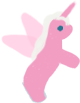
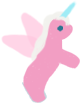
PF: changed unicorn horn colors on hover

Changed region(s): [[0.75, 0.0, 0.95, 0.1748]]

diff --git a/index.html b/index.html
@@ -55,7 +55,7 @@
   <section id="table-of-contents">
     <h1>Works</h1>
     <section class="all-groups">
-      <section class="group">
+      <section class="group" id="group1">
         <h2>Visual communication</h2>
         <a href="">
           <p>Best Practices for Reopening During COVID-19</p>
@@ -71,26 +71,23 @@
         </a>
       </section>
 
-      <section class="group">
+      <section class="group" id="group2">
         <h2>Digital media</h2>
         <a href="">
           <p>Portfolio Website</p>
         </a>
         <a href="">
-          <p>Reserve & Shop Infographics</p>
+          <p>AGIC Social Media Posters</p>
         </a>
         <a href="">
           <p>Mischievous Monkey</p>
         </a>
         <a href="">
-          <p>AGIC Social Media Posters</p>
-        </a>
-        <a href="">
-          <p>Trapped in Technology</p>
+          <p>Reserve & Shop Infographics</p>
         </a>
       </section>
 
-      <section class="group">
+      <section class="group" id="group3">
         <h2>Built environment</h2>
         <a href="">
           <p>Butterfly Automata</p>
@@ -100,8 +97,11 @@
         </a>
       </section>
 
-      <section class="group">
-        <h2>Game design</h2>
+      <section class="group" id="group4">
+        <h2>Game/Interactive design</h2>
+        <a href="">
+          <p>Trapped in Technology</p>
+        </a>
         <a href="">
           <p>A Snail's Journey</p>
         </a>

diff --git a/js/Globe.js b/js/Globe.js
@@ -46,8 +46,11 @@ class Globe {
     if (this.unicorn.framesElapsed === this.unicorn.framesBetweenImages) {
       if (this.unicorn.currentImage === 0) {
         this.unicorn.currentImage = 1;
-      }
-      else if (this.unicorn.currentImage === 1) {
+      } else if (this.unicorn.currentImage === 1) {
+        this.unicorn.currentImage = 2;
+      } else if (this.unicorn.currentImage === 2) {
+        this.unicorn.currentImage = 3;
+      } else if (this.unicorn.currentImage === 3) {
         this.unicorn.currentImage = 0;
       }
       // Reset frames elapsed to zero

diff --git a/css/styles.css b/css/styles.css
@@ -256,8 +256,24 @@ section.hover-instructions {
   color: white;
 }
 
-#table-of-contents .group a:hover {
-  color: white;
+#table-of-contents #group1 a:hover {
+  /* pink */
+  color: #e6a2c2;
+}
+
+#table-of-contents #group2 a:hover {
+  /* yellow */
+  color: #fdfeb8;
+}
+
+#table-of-contents #group3 a:hover {
+  /* green */
+  color: #a2e6d4;
+}
+
+#table-of-contents #group4 a:hover {
+  /* purple */
+  color: #b7a2e6;
 }
 
 #table-of-contents p {

diff --git a/js/script.js b/js/script.js
@@ -74,7 +74,7 @@ let globeBaseImage = undefined;
 // array that stores images of unicorn
 let unicornImages = [];
 // number of unicorn images
-let numUnicornImages = 2;
+let numUnicornImages = 4;
 
 // array that stores snowflakes
 let snowflakes = [];
